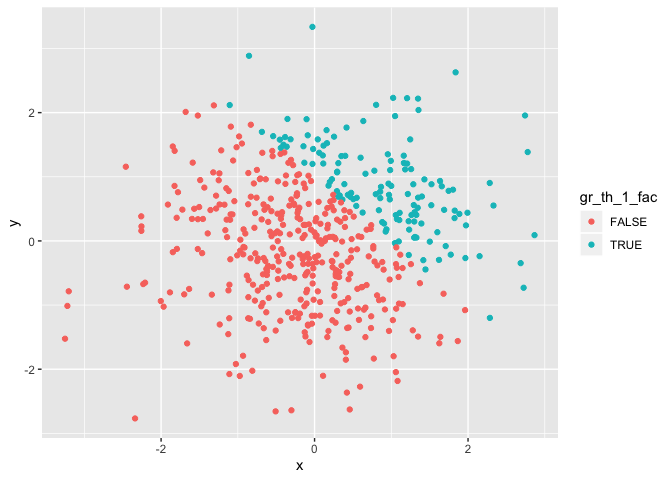
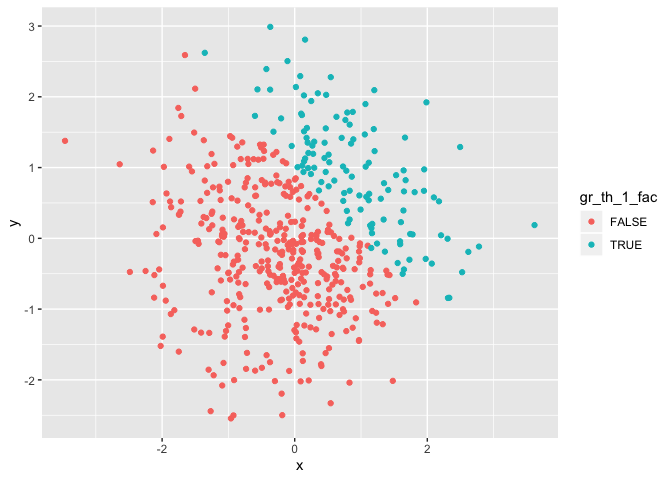
deleted spaces between certain lines of code for styling purposes

diff --git a/p8105_hw1_lk2761.md b/p8105_hw1_lk2761.md
@@ -14,7 +14,6 @@ sample_df = tibble(
   gr_th_0 = sample > 0, 
   vec_char_8 = c("This", "generates", "a", "sample", "of", "eight", "random", "numbers"),
   vec_factor_8 = factor(c("odd", "even", "prime", "even", "prime", "even", "odd", "even"))
-  
 )
 ```
 
@@ -25,13 +24,13 @@ Now I will take the mean of each variable in the data
 mean(pull(sample_df, sample))
 ```
 
-    ## [1] 0.02762999
+    ## [1] 0.6353604
 
 ``` r
 mean(pull(sample_df, gr_th_0)) 
 ```
 
-    ## [1] 0.5
+    ## [1] 0.375
 
 ``` r
 mean(pull(sample_df, vec_char_8))
@@ -99,7 +98,7 @@ gr_th_0_numeric = as.numeric(pull(sample_df, gr_th_0))
 gr_th_0_numeric*pull(sample_df, sample)
 ```
 
-    ## [1] 0.5860831 0.0000000 0.1738200 0.1661140 0.0000000 0.0000000 1.3072273
+    ## [1] 0.0000000 0.9978641 0.0000000 0.0000000 3.2521110 2.1068590 0.0000000
     ## [8] 0.0000000
 
 ``` r
@@ -118,8 +117,8 @@ gr_th_0_numeric_2 = as.numeric(gr_th_0_factor_2)
 gr_th_0_numeric_2*pull(sample_df, sample)
 ```
 
-    ## [1]  1.1721662 -0.4193936  0.3476399  0.3322280 -0.1298880 -1.0573111
-    ## [7]  2.6144546 -0.4056117
+    ## [1] -0.12329533  1.99572821 -0.07037989 -0.77433163  6.50422194  4.21371799
+    ## [7] -0.20911173 -0.09683220
 
 ## Problem 2
 
@@ -134,17 +133,16 @@ plot_df = tibble(
   gr_th_1 = x + y > 1,
   gr_th_1_num = as.numeric(gr_th_1),
   gr_th_1_fac = as.factor(gr_th_1)
-  
 )
 ```
 
 The size of the dataset is 500 by 5.
 
-The mean of x is 0.0183761.
+The mean of x is -0.0257332.
 
-The median of x is -0.0144702.
+The median of x is 0.0095886.
 
-The standard deviation of x is 1.0029488.
+The standard deviation of x is 1.0017501.
 
 This code chunk makes a scatterplot of y vs. x. The first scatterplot
 consists of color points using the logical variable, **gr\_th\_1**,
